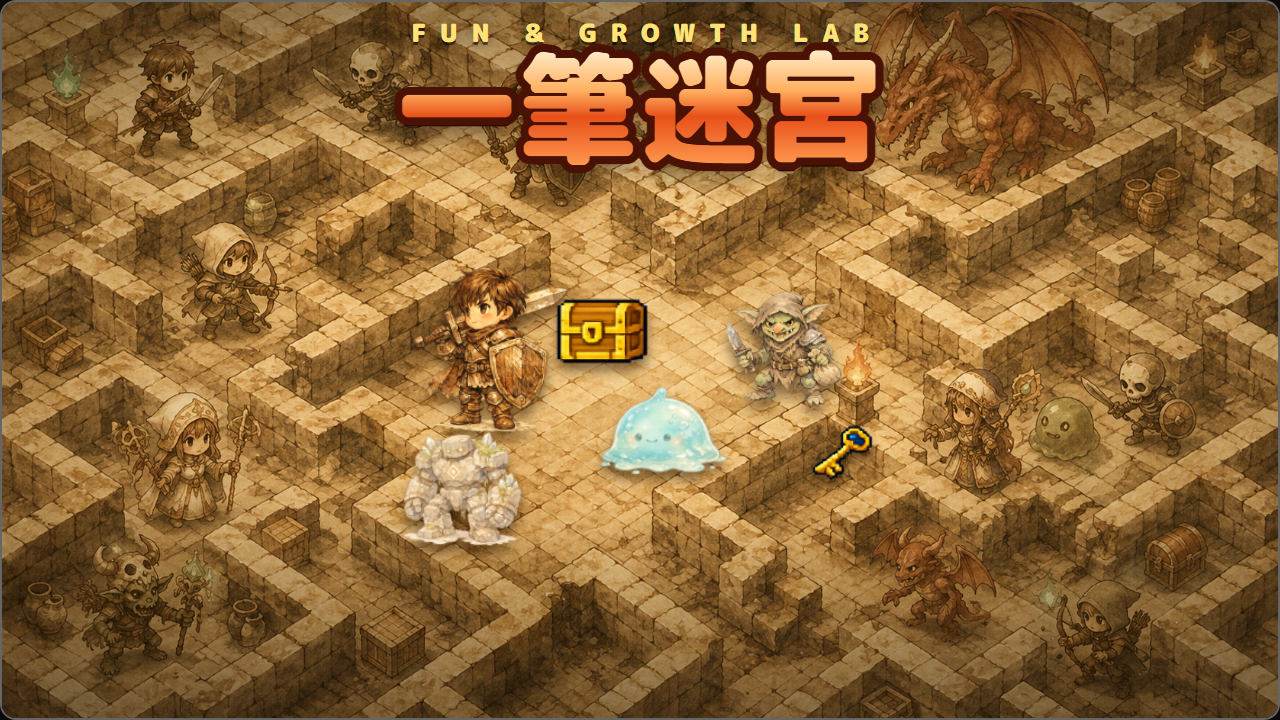
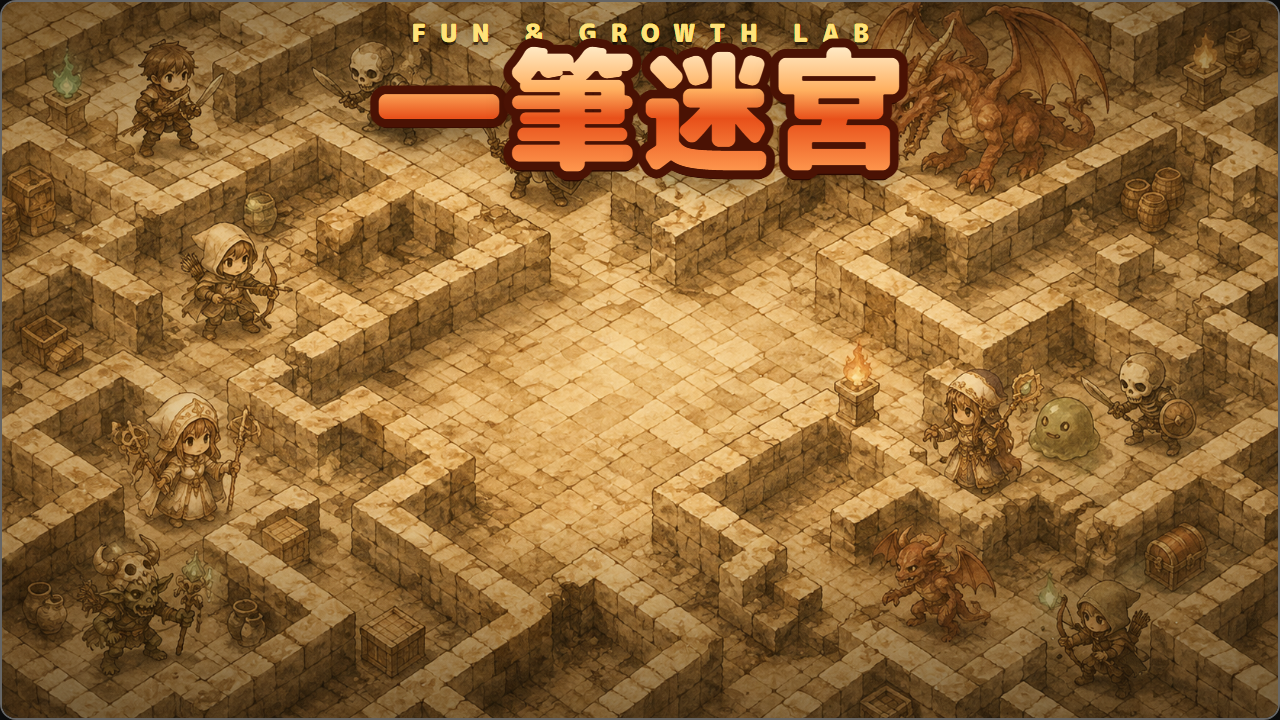
一筆迷宮: タイトル/サムネの中央のオブジェクトを削除(背景と題名のみ)

Changed region(s): [[0.3125, 0.3667, 0.6562, 0.7944], [0.2812, 0.0306, 0.7188, 0.275], [0.625, 0.5806, 0.6875, 0.6722]]

diff --git a/HitofudeMeikyuu/index.html b/HitofudeMeikyuu/index.html
@@ -4936,12 +4936,6 @@ FGLTitle.mount({
     name: { ja: '一筆迷宮', simple: 'ひとふで めいきゅう', en: 'Hitofude Maze' },
     sub: { ja: '一筆書きで てきを たおして ゴールへ！', simple: 'ひとふでがきで てきを たおして ゴールへ！', en: 'One stroke through the maze to the goal!' },
     lang: () => currentLang === 'ja_easy' ? 'simple' : currentLang,
-    // 背景の まん中の空きを、ゲームに出てくる勇者・モンスター・宝箱・カギでうめる
-    heroHTML: () => {
-        const S = (f, l, t, s, c) => '<img class="hv ' + (c || 'hv-bob') + '" src="images/' + f + '" alt="" style="left:' + l + 'px;top:' + t + 'px;width:' + s + 'px;height:' + s + 'px;object-fit:contain;filter:drop-shadow(0 8px 5px rgba(40,20,0,.5))">';
-        return S('character/male_Swordsman.png', 420, 236, 170) + S('character/slime.png', 600, 330, 120, 'hv-bob2') + S('character/goblin.png', 700, 250, 140)
-            + S('items/01_chest_gold.png', 560, 252, 92, 'hv-bob2') + S('items/10_key.png', 790, 380, 64) + S('character/gorem.png', 420, 380, 120, 'hv-bob2');
-    },
     buttons: {
         start: () => { const r = document.getElementById('btn-continue-row'); return (r && r.offsetParent !== null) ? '#btn-continue' : '#btn-start'; },
         row: [

diff --git a/index.html b/index.html
@@ -1089,7 +1089,7 @@
                 <span class="mini-tag" data-i18n="tag_gr3">3年生〜</span>
             </div>
             <a href="HitofudeMeikyuu/index.html" class="media-container">
-                <img src="images/HitofudeMeikyuu.png?v=20261160" alt="一筆迷宮">
+                <img src="images/HitofudeMeikyuu.png?v=20261170" alt="一筆迷宮">
             </a>
             <div class="start-btn-area">
                 <a href="HitofudeMeikyuu/index.html" class="play-btn">ゲームスタート ▶</a>
